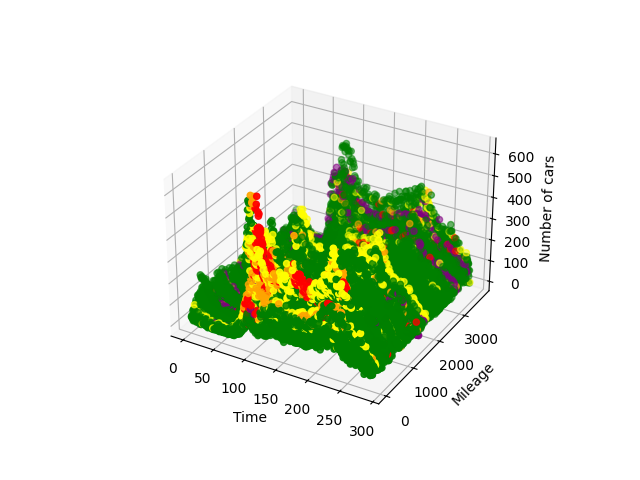
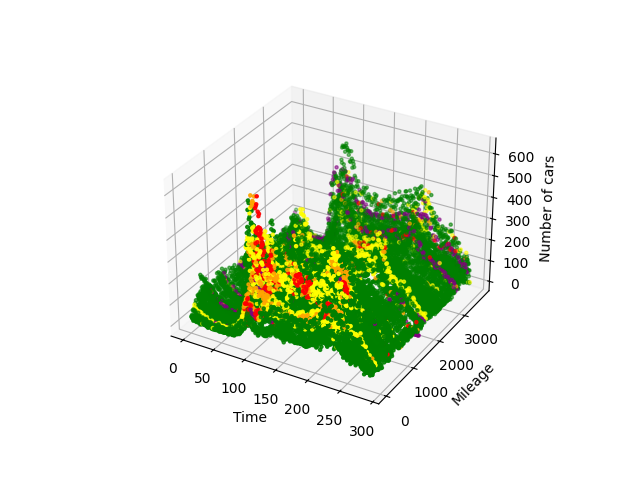
0507

Changed region(s): [[0.2812, 0.2812, 0.75, 0.8125]]

diff --git a/20240507/11272009_1.py b/20240507/11272009_1.py
@@ -33,7 +33,7 @@ fig2 = plt.figure()
 ax2 = fig2.add_subplot(111, projection='3d')
 
 # 繪製北向的 3D 散點圖
-ax1.scatter(df_north['時間'], df_north['地點'], df_north['小客車'], c=df_north['顏色碼'])
+ax1.scatter(df_north['時間'], df_north['地點'], df_north['小客車'], c=df_north['顏色碼'], s=5)
 
 # 設定軸標籤
 ax1.set_xlabel('Time')
@@ -47,7 +47,7 @@ plt.show()
 fig1.savefig('/workspaces/cycu_ai2024/20240507/11272009_2_north.png')
 
 # 繪製南向的 3D 散點圖
-ax2.scatter(df_south['時間'], df_south['地點'], df_south['小客車'], c=df_south['顏色碼'])
+ax2.scatter(df_south['時間'], df_south['地點'], df_south['小客車'], c=df_south['顏色碼'], s=5)
 
 # 設定軸標籤
 ax2.set_xlabel('Time')
